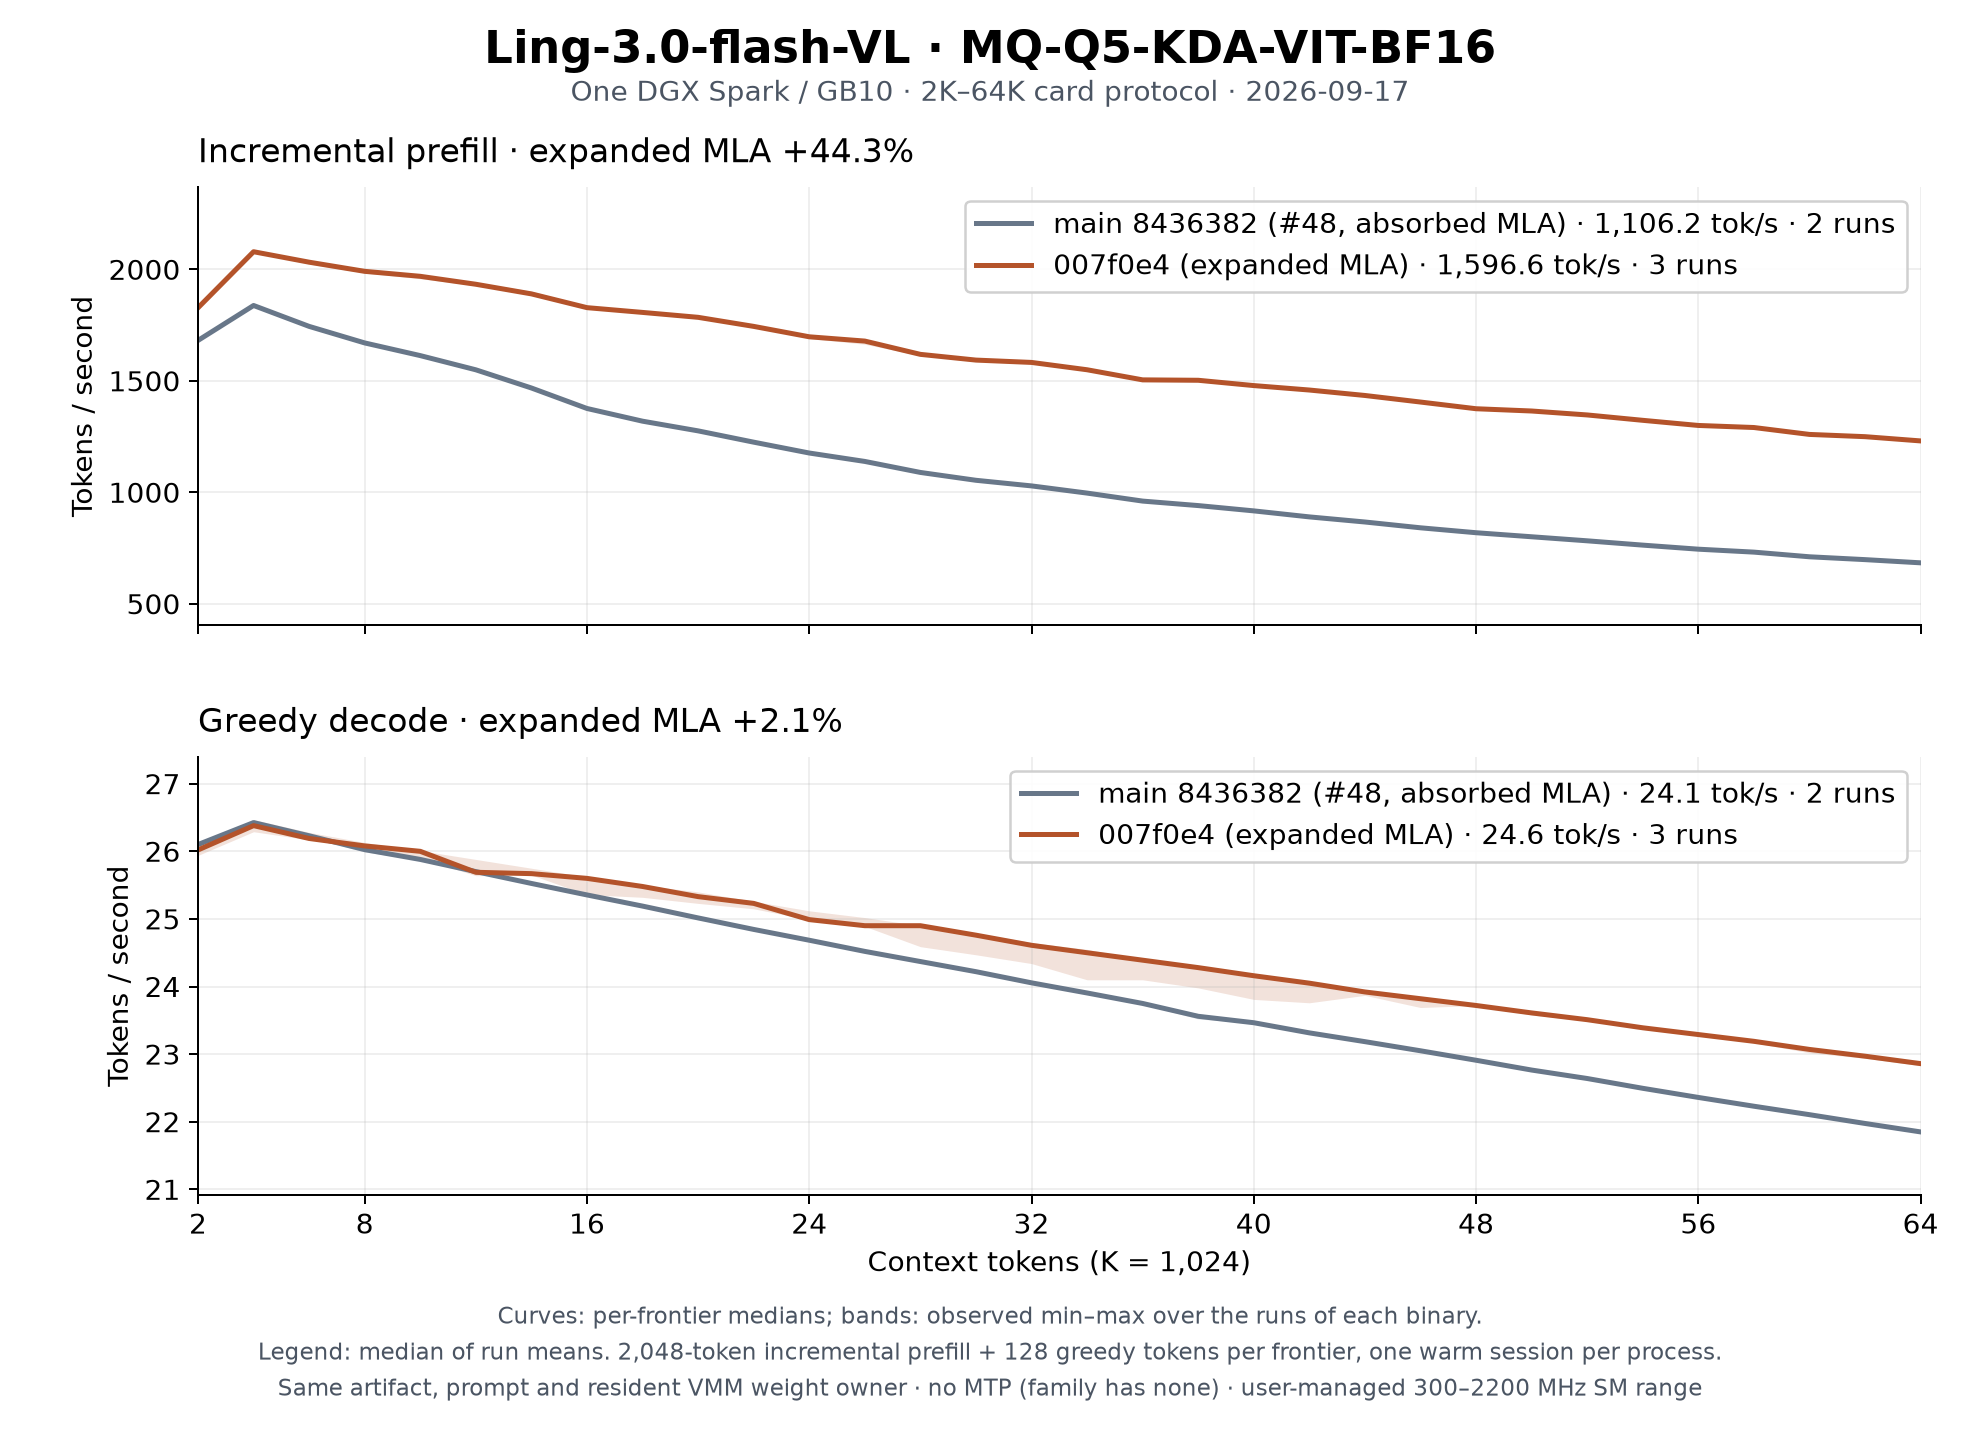
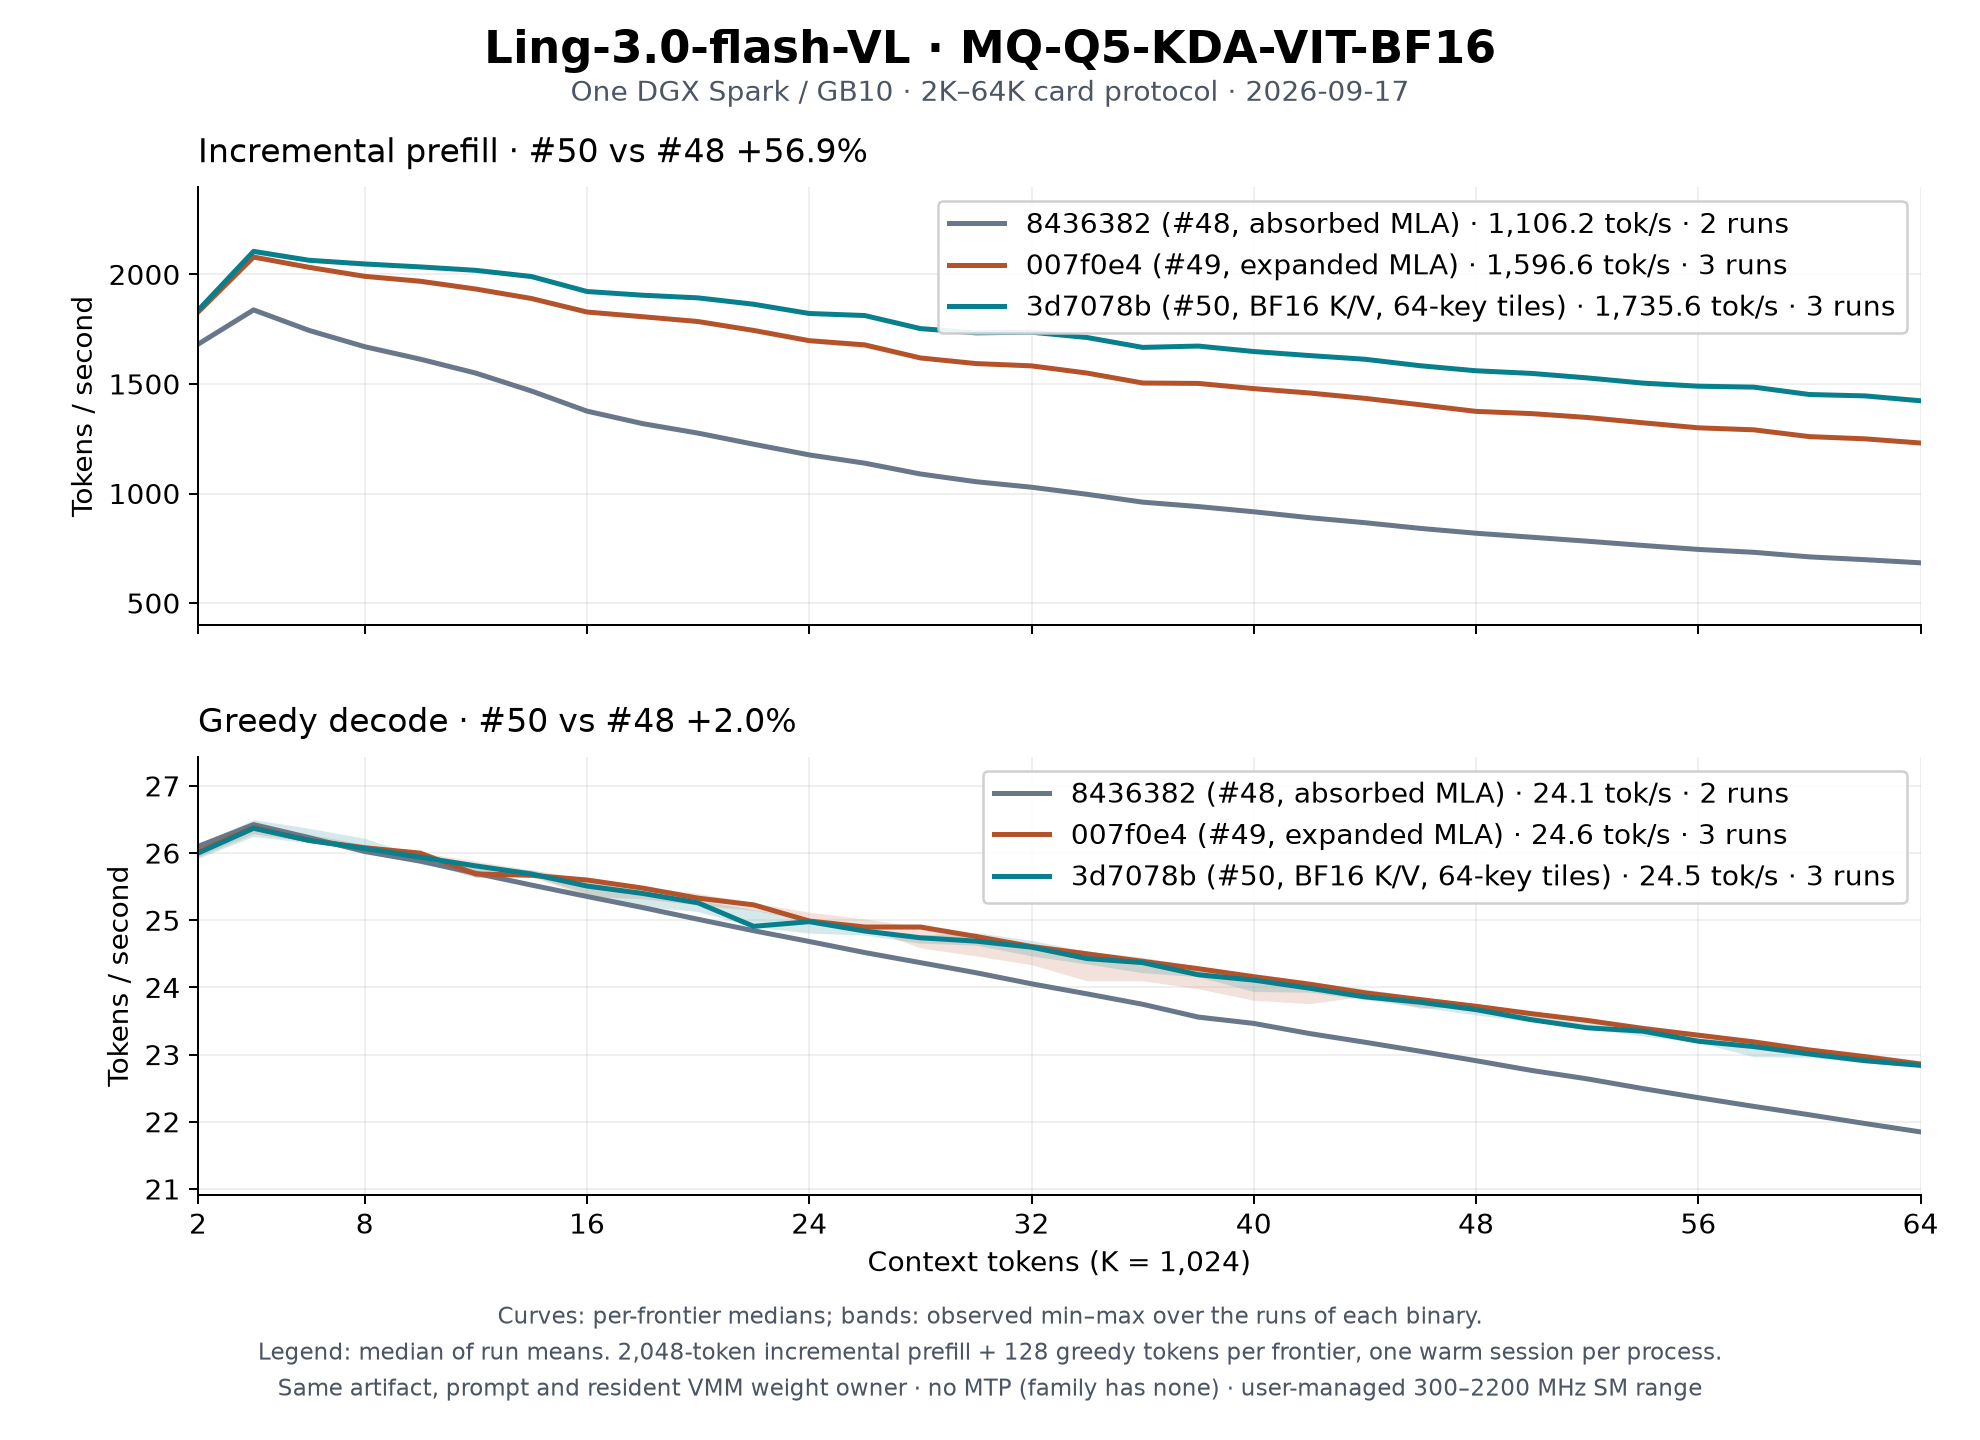
Record the Ling #50 2K–64K card sweep
The merged BF16 K/V path lifts mean prefill 1,597 → 1,736 tok/s on the
same protocol, and 1,231 → 1,423 at 64K, so the published graph and
receipt need the three-run series.

diff --git a/docs/benchmarks/plot-ling3-flash-vl.py b/docs/benchmarks/plot-ling3-flash-vl.py
@@ -1,5 +1,5 @@
 #!/usr/bin/env python3
-"""Plot the Ling-3.0-flash-VL 2K–64K card sweep, #48 vs expanded-MLA prefill; requires matplotlib."""
+"""Plot the Ling-3.0-flash-VL 2K–64K card sweep, #48 vs #49 vs #50; requires matplotlib."""
 import csv
 import json
 from pathlib import Path
@@ -13,10 +13,13 @@ import matplotlib.pyplot as plt
 
 DATA = Path(__file__).with_name("ling3-flash-vl-2026-09-17")
 OUT = DATA.parent.parent / "ling3-flash-vl-2k-64k-throughput.png"
-# Two #48 runs (a third was cut short); three expanded-MLA runs.
-REPEATS = {"base": 2, "new": 3}
-COLORS = {"base": "#687789", "new": "#b4532a"}
-LABELS = {"base": "main 8436382 (#48, absorbed MLA)", "new": "007f0e4 (expanded MLA)"}
+# Two #48 runs (a third was cut short); three runs each of #49 and #50.
+REPEATS = {"base": 2, "new": 3, "r2": 3}
+COLORS = {"base": "#687789", "new": "#b4532a", "r2": "#087f8c"}
+LABELS = {"base": "8436382 (#48, absorbed MLA)",
+          "new": "007f0e4 (#49, expanded MLA)",
+          "r2": "3d7078b (#50, BF16 K/V, 64-key tiles)"}
+FINAL = "r2"
 METRICS = (("prefill_tps", "Incremental prefill"), ("gen_tps", "Greedy decode"))
 FRONTIERS = list(range(2048, 65537, 2048))
 
@@ -61,10 +64,10 @@ def plot():
             runs_note = f"{len(samples)} run" + ("s" if len(samples) > 1 else "")
             ax.plot(x, [median(c) for c in columns], color=COLORS[tag], linewidth=2,
                     label=f"{LABELS[tag]} · {center:,.1f} tok/s · {runs_note}")
-        change = 100 * (summary[metric]["new"]["median_run_mean"] /
+        change = 100 * (summary[metric][FINAL]["median_run_mean"] /
                         summary[metric]["base"]["median_run_mean"] - 1)
         summary[metric]["change_percent"] = change
-        ax.set_title(f"{heading} · expanded MLA {change:+.1f}%", loc="left", fontsize=13, pad=10)
+        ax.set_title(f"{heading} · #50 vs #48 {change:+.1f}%", loc="left", fontsize=13, pad=10)
         ax.set_ylabel("Tokens / second")
         ax.grid(alpha=0.2)
         ax.legend(loc="best", framealpha=0.92)

diff --git a/README.md b/README.md
@@ -679,13 +679,13 @@ The original split gate claims parity class, not a universal speedup.
 | K2-Horizon-375B MQ87 | Four-shard 86.70 GiB MQ87: CLI 32K raw-token `33785`; default memgov 95/95 VMM promote; HTTP Chat/tool/stream/concurrent on one 32K bank. |
 | dots3-note MQ87 (2026-09-06 rounds) | 8,192-token cold prefill 278.3 → 604.3 tok/s (+117 %), greedy decode 11.66 → 16.78 tok/s (+44 %) on one DGX Spark, serial lane, same-binary kill-switch A/B; frontier logits same argmax / top-10 10/10, 64 greedy IDs identical; resident CPU-reference gate passed (`docs/dots3-optimization-2026-09-06.md`). |
 | Step 3.7 Flash MQ83 (300–2200 MHz cap) | Fresh matched 3-pair A/B: 2048+64 Prefill **1194.64 tok/s** (+0.72%), MTP draft-3 Decode **22.77 tok/s** (+4.02%), exact logits/tokens. Separate 16384+64: Prefill **1290.01** (+7.22%), MTP Decode **16.34** (+14.59%, changed trajectory/acceptance). Default chunk 4096; smaller overrides for bank/image memory. Two Prefill and two Decode rounds, raw samples and limits: [capped campaign](docs/step37-optimization-2026-09-13-r3.md). Earlier uncapped results are historical. |
-| Ling-3.0-flash-VL MQ-Q5 (SM 2184–2197 MHz) | 8192+64 `ds4-bench`, #46 → #48: prefill **1,142 → 1,889 tok/s** (+65%), decode **19.54 → 24.65 tok/s** (+26%). Expanded-MLA prefill on top of #48, 2K–64K card sweep (2,048-token incremental prefill + 128 greedy tokens per frontier): mean prefill **1,106 → 1,597 tok/s** (+44%), at 65,536 tokens **684 → 1,231 tok/s** (+80%); mean decode 24.05 → 24.56. Cold 64K prefill 1,048 → **1,742 tok/s**. Same argmax at every frontier; logit rel-RMS vs the FP32 walk 0.114, where the #48 FP16 path sits at 0.093. Each round behind a kill switch. [Campaign, long-context rounds and sweep](docs/ling3-flash-vl.md#cuda-campaign-gb10). |
+| Ling-3.0-flash-VL MQ-Q5 (SM 2177–2197 MHz) | 8192+64 `ds4-bench`, #46 → #48: prefill **1,142 → 1,889 tok/s** (+65%), decode **19.54 → 24.65 tok/s** (+26%). 2K–64K card sweep through #50 (BF16 K/V, 64-key tiles): mean prefill **1,106 → 1,736 tok/s** (+57%), at 65,536 tokens **684 → 1,423 tok/s** (+108%); mean decode 24.05 → 24.53. Versus #49 the same sweep is +8.7% mean prefill and +16% at 64K. Cold 64K prefill 1,048 → **1,742 tok/s**. Same argmax at every frontier. Each round behind a kill switch. [Campaign, long-context rounds and sweep](docs/ling3-flash-vl.md#cuda-campaign-gb10). |
 
-![Ling-3.0-flash-VL MQ-Q5 2K–64K throughput, #48 vs expanded MLA](docs/ling3-flash-vl-2k-64k-throughput.png)
+![Ling-3.0-flash-VL MQ-Q5 2K–64K throughput, #48 vs #49 vs #50](docs/ling3-flash-vl-2k-64k-throughput.png)
 
-*One DGX Spark / GB10, one warm session per fresh process, same resident
-weight owner and prompt. Curves: per-frontier medians; bands: min–max over
-two #48 runs and three expanded-MLA runs. No MTP: the family has none.
+*One DGX Spark / GB10, one warm session per fresh process. Curves:
+per-frontier medians; bands: min–max over two #48 runs and three runs
+each of #49 and #50. No MTP: the family has none.
 [Raw CSVs and receipt](docs/benchmarks/ling3-flash-vl-2026-09-17/);
 `python3 docs/benchmarks/plot-ling3-flash-vl.py`.*
 

diff --git a/docs/ling3-flash-vl.md b/docs/ling3-flash-vl.md
@@ -265,33 +265,36 @@ absorbed walk).
 
 The Qwen card protocol: one warm session per fresh process, 2,048-token
 incremental prefill and 128 greedy tokens at every frontier from 2,048 to
-65,536, `speed-bench/promessi_sposi.txt`, the same resident VMM weight
-owner, SM 2184–2190 MHz while busy.  Two runs of `main` `8436382` (#48)
-and three of `007f0e4` (P4 + D2).  Between frontiers `ds4-bench` replays
+65,536, `speed-bench/promessi_sposi.txt`, a resident VMM weight owner,
+SM 2177–2190 MHz while busy.  Two runs of `main` `8436382` (#48), three
+of `007f0e4` (#49) and three of `3d7078b` (#50; merged as `f35dbeb`).
+#48 and #49 shared one owner; #50 used a fresh owner of the same
+artifact later the same morning.  Between frontiers `ds4-bench` replays
 the prefix (the recurrent state has no rewind); that replay sits outside
 both measured phases.
 
-![Ling-3.0-flash-VL 2K–64K prefill and decode, #48 vs expanded MLA](ling3-flash-vl-2k-64k-throughput.png)
+![Ling-3.0-flash-VL 2K–64K prefill and decode, #48 vs #49 vs #50](ling3-flash-vl-2k-64k-throughput.png)
 
 | Binary | Runs | Mean prefill tok/s | Mean decode tok/s |
 |---|---:|---:|---:|
 | `8436382` (#48, absorbed MLA) | 2 | 1,106.2 | 24.05 |
-| `007f0e4` (expanded MLA) | 3 | **1,596.6** (+44.3%) | **24.56** (+2.1%) |
+| `007f0e4` (#49, expanded MLA) | 3 | 1,596.6 (+44.3%) | 24.56 (+2.1%) |
+| `3d7078b` (#50, BF16 K/V, 64-key tiles) | 3 | **1,735.6** (+56.9%) | **24.53** (+2.0%) |
 
-Per-frontier medians, #48 → expanded:
+Per-frontier medians, #48 → #49 → #50 (deltas vs #48 / vs #49):
 
 | Frontier | Prefill tok/s | Decode tok/s |
 |---:|---:|---:|
-| 8,192 | 1,670 → **1,991** (+19%) | 26.0 → 26.1 |
-| 32,768 | 1,029 → **1,583** (+54%) | 24.1 → 24.6 |
-| 65,536 | 684 → **1,231** (+80%) | 21.9 → 22.9 |
+| 8,192 | 1,670 → 1,991 → **2,048** (+23% / +2.8%) | 26.0 → 26.1 → 26.1 |
+| 32,768 | 1,029 → 1,583 → **1,736** (+69% / +9.7%) | 24.1 → 24.6 → 24.6 |
+| 65,536 | 684 → 1,231 → **1,423** (+108% / +16%) | 21.9 → 22.9 → 22.8 |
 
-Prefill still declines 2K → 64K (2,067 → 1,231): the Motif range kernel
-reads its expanded K/V from FP32 and re-stages every key tile per 64-query
-block, so the remaining context term is memory traffic rather than FLOPs.
-Decode declines 26.4 → 22.9 in the absorbed head-group walk.  Raw CSVs,
-`receipt.json` and `summary.json`: `benchmarks/ling3-flash-vl-2026-09-17/`;
-plot: `python3 docs/benchmarks/plot-ling3-flash-vl.py` (matplotlib).
+Prefill still declines 2K → 64K (1,836 → 1,423): the seven MLA layers
+are dense causal full attention, so the leftover slope is key-range
+traffic.  Decode declines 26.0 → 22.8 in the absorbed head-group walk.
+Raw CSVs, `receipt.json` and `summary.json`:
+`benchmarks/ling3-flash-vl-2026-09-17/`; plot:
+`python3 docs/benchmarks/plot-ling3-flash-vl.py` (matplotlib).
 
 Chat input runs the official Bailing V3 Jinja template that ships in the GGUF;
 the legacy token builder refuses this family rather than approximating it. The
